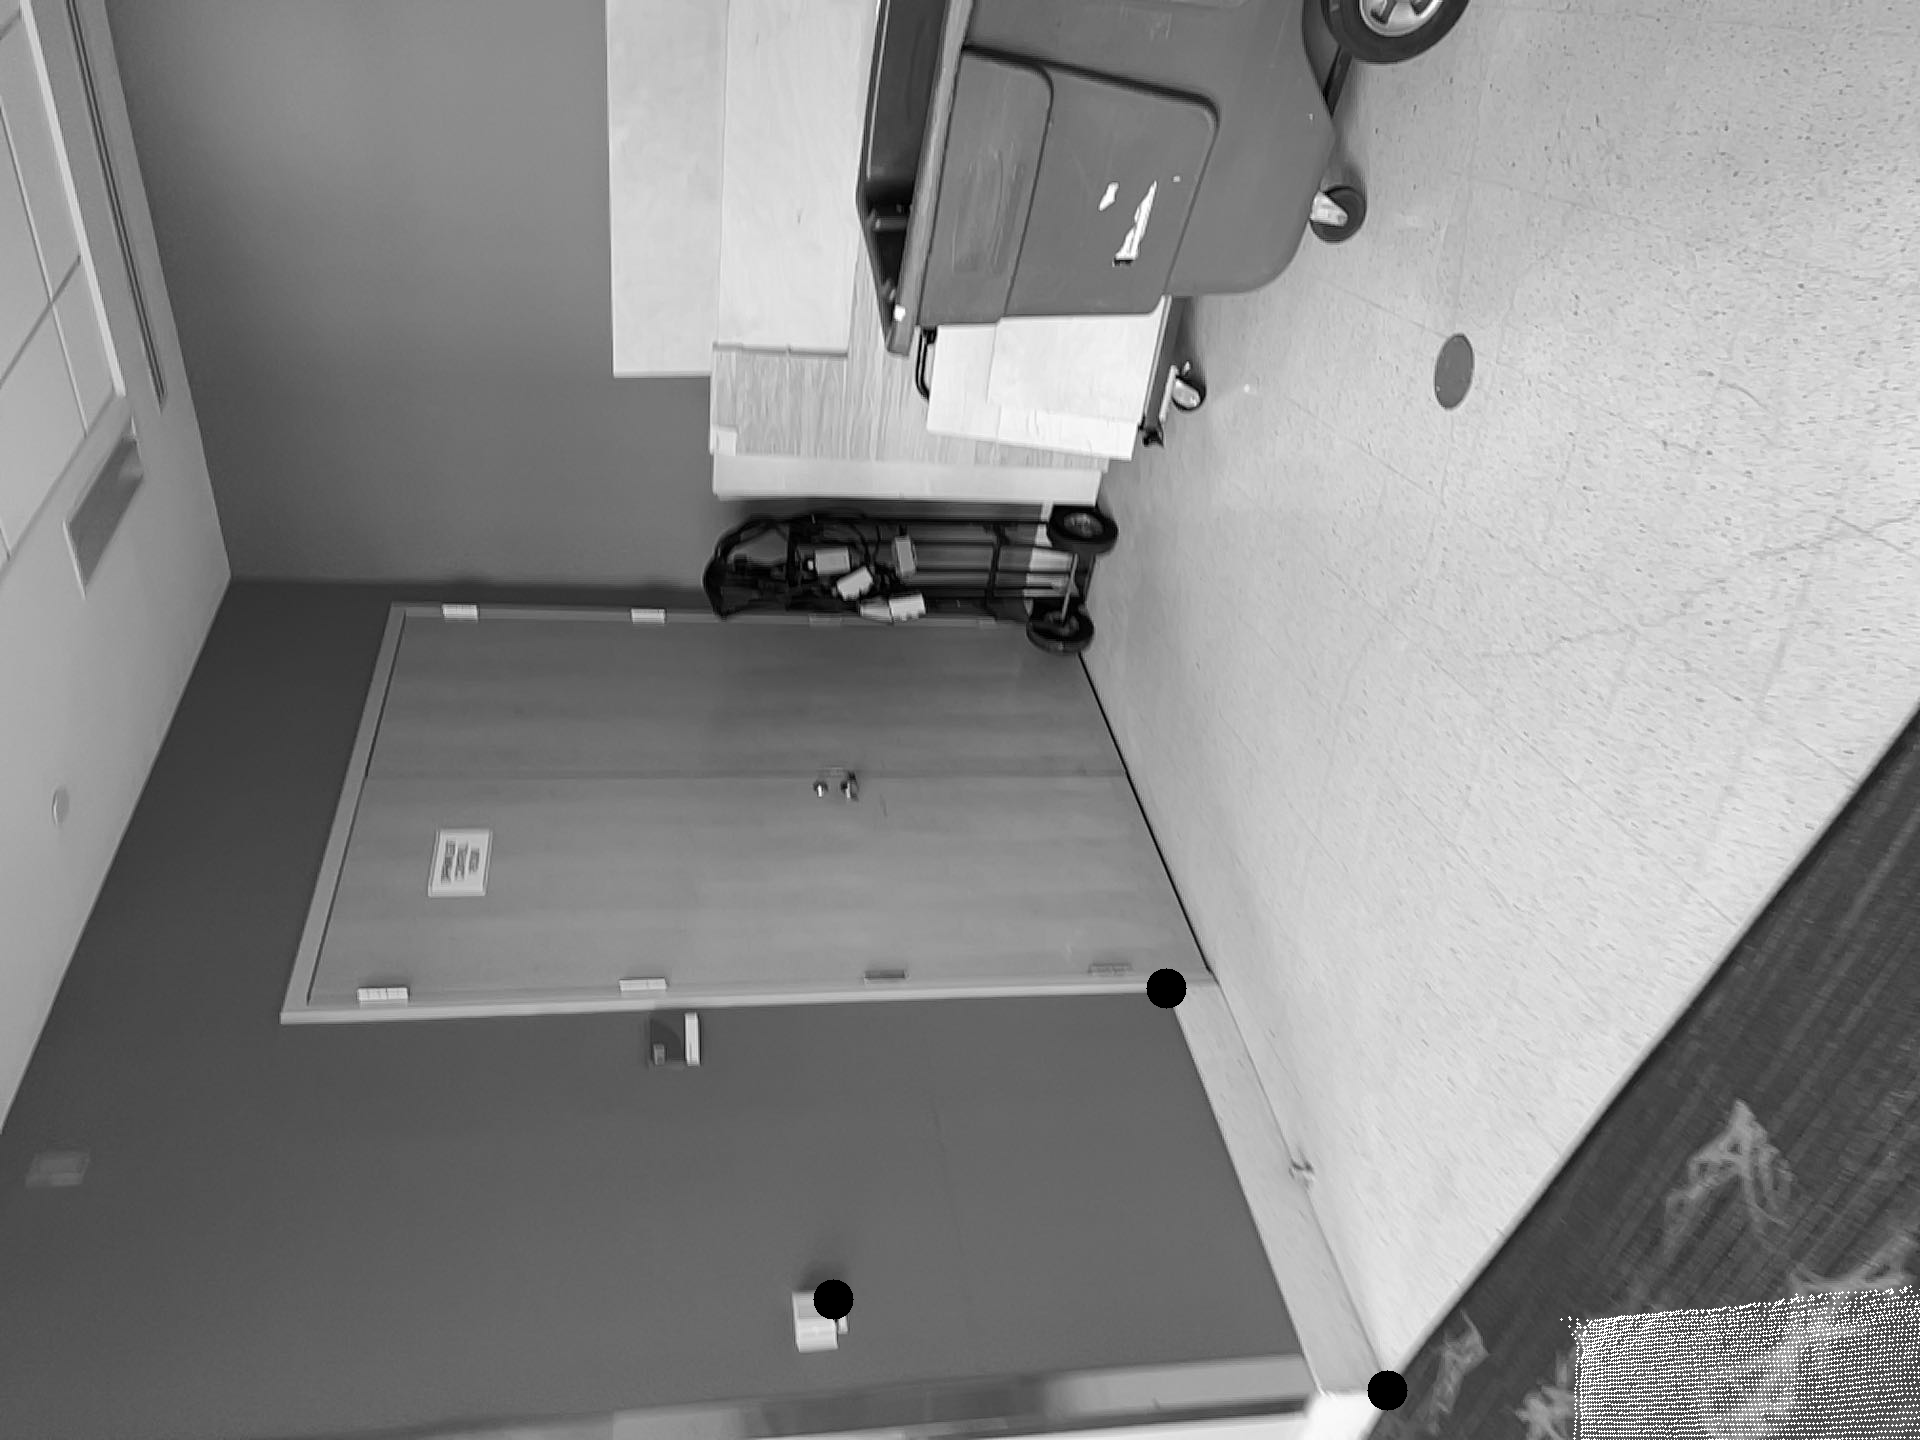
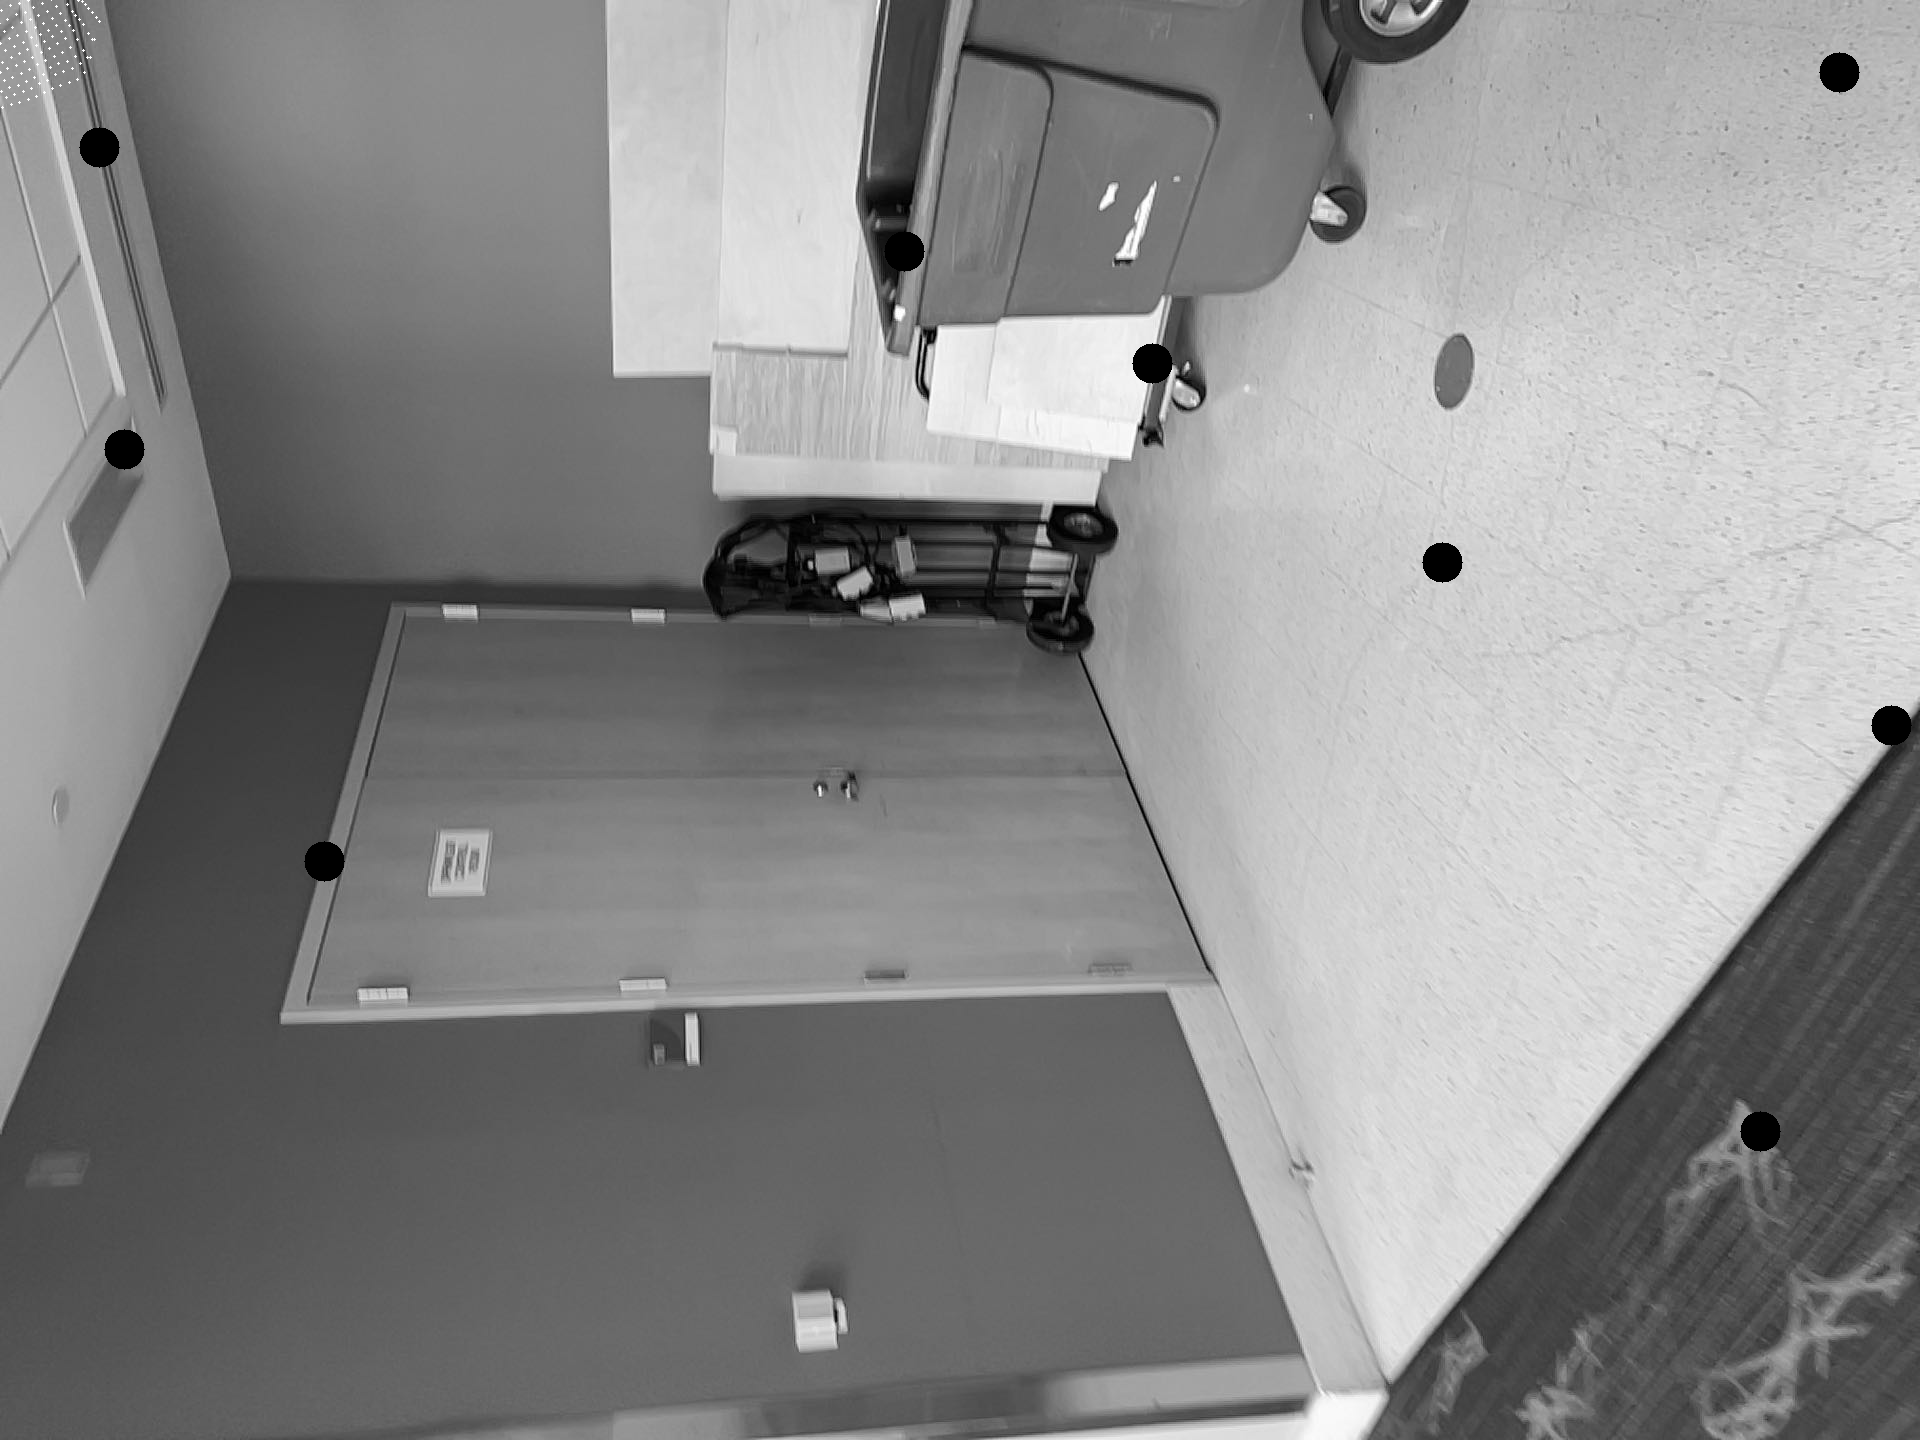
added calculation for average distance between depth matched and algorithm matched points on the train image

diff --git a/src/DepthMath.py b/src/DepthMath.py
@@ -1,45 +1,54 @@
-import sys
-import os
 import cv2
 import numpy as np
 from scipy.linalg import inv
 from copy import copy
 
-# sys.path.append(f"{os.path.dirname(os.path.dirname(__file__))}/src/")
 from Benchmarker import Benchmarker
-from MatchingAlgorithm import OrbMatcher, SiftMatcher, SuperGlueMatcher
+from MatchingAlgorithm import OrbMatcher, SiftMatcher
 
-
-def map_depth(bundle, keypoints, query_image, train_image):
-    focal_length = bundle.query_image_intrinsics[0]
-    offset_x = bundle.query_image_intrinsics[6]
-    offset_y = bundle.query_image_intrinsics[7]
-
+def convert_unit_depth_vectors(query_image_depth_map):
+    """
+    Multiplies unit depth vector by it's magnitude.
+    """
     query_lidar_depths = []
     for row in bundle.query_image_depth_map:
         x = row[0] * row[3]
         y = row[1] * row[3]
         z = row[2] * row[3]
-        query_lidar_depths.append([x, y, z])
-
+        query_lidar_depths.append([x, y, z]) 
     query_depth_data = np.array(query_lidar_depths)
     query_depth_data = np.hstack(
         (query_depth_data, np.ones((query_depth_data.shape[0], 1)))
     ).T
-    query_depth_feature_points = np.array(
-        (query_depth_data[0], -query_depth_data[1], -query_depth_data[2])
-    ).T
-
-    # calculate depths and pixels of feature points
+    return query_depth_data
+    
+def project_depth_onto_image(query_depth_feature_points, focal_length, offset_x, offset_y):
     pixels = []
     for row in query_depth_feature_points:
         pixel_x = row[0] * focal_length / row[2] + offset_x
         pixel_y = row[1] * focal_length / row[2] + offset_y
         pixels.append((pixel_x, pixel_y))
+    return pixels    
 
+def map_depth(bundle, keypoints, query_image, train_image):
+    ## Depth map of query image
+    focal_length = bundle.query_image_intrinsics[0]
+    offset_x = bundle.query_image_intrinsics[6]
+    offset_y = bundle.query_image_intrinsics[7]
+
+    query_depth_data = convert_unit_depth_vectors(bundle.query_image_depth_map)
+    
+    # Actual depth feature points, with magnitude removed from the vector. 
+    query_depth_feature_points = np.array(
+        (query_depth_data[0], -query_depth_data[1], -query_depth_data[2])
+    ).T
+
+    # calculate depths and pixels of feature points
+    pixels = project_depth_onto_image(query_depth_feature_points, focal_length, offset_x, offset_y)
+    
     final_query_image = query_image
 
-    # Plot depth map
+    # Plot depth map onto query image
     for i, pixel in enumerate(pixels):
         final_query_image = cv2.circle(
             final_query_image,
@@ -53,23 +62,7 @@ def map_depth(bundle, keypoints, query_image, train_image):
             -1,
         )
 
-    # Converts pixels of keypoint to depth point index
-    # # Plots corresponding depth point
-    # final_query_image = cv2.circle(
-    #     query_image,
-    #     (
-    #         int(pixels[corresponding_depth_index][0]),
-    #         int(pixels[corresponding_depth_index][1]),
-    #     ),
-    #     10,
-    #     (
-    #         0,
-    #         0,
-    #         0,
-    #     ),
-    #     -1,
-    # )
-
+    ## Depth map of train image
     focal_length = bundle.train_image_intrinsics[0]
     offset_x = bundle.train_image_intrinsics[6]
     offset_y = bundle.train_image_intrinsics[7]
@@ -89,14 +82,11 @@ def map_depth(bundle, keypoints, query_image, train_image):
     ).T
 
     pixels = []
-    for row in projected_depth_feature_points:
-        pixel_x = row[0] * focal_length / row[2] + offset_x
-        pixel_y = row[1] * focal_length / row[2] + offset_y
-        pixels.append((pixel_x, pixel_y))
+    pixels = project_depth_onto_image(projected_depth_feature_points, focal_length, offset_x, offset_y)
 
     final_train_image = train_image
 
-    # Plot depth map
+    # Plot transformed depth map onto train image.
     for i, pixel in enumerate(pixels):
         final_train_image = cv2.circle(
             final_train_image,
@@ -110,15 +100,20 @@ def map_depth(bundle, keypoints, query_image, train_image):
             -1,
         )
 
+    depth_point_to_algo_point_distances = []
+    ## Project corresponding query image keypoints onto train image which are matched using depth map data
     for unimatch in keypoints:
         matched_query_keypoint = (int(unimatch.queryPt.x), int(unimatch.queryPt.y))
         matched_train_keypoint = (int(unimatch.trainPt.x), int(unimatch.trainPt.y))
 
+        # get corresponding depth map index for each keypoint. 
+            # Keypoints in a rectangular area around a depth index are matched to same index.
+            # This is done since the resolution of depth map is lower than the resolution of the image.
         corresponding_depth_index = round(
             matched_query_keypoint[0] / 7.5
         ) * 192 + round(matched_query_keypoint[1] / 7.5)
 
-        # Represents the keypoint
+        # Draw query image keypoints
         final_query_image = cv2.circle(
             final_query_image,
             (matched_query_keypoint[0], matched_query_keypoint[1]),
@@ -130,11 +125,12 @@ def map_depth(bundle, keypoints, query_image, train_image):
             ),
             -1,
         )
-
-        # Represents the matched train keypoint
+        algo_matched_point = np.array((matched_train_keypoint[0], matched_train_keypoint[1]))
+        depth_matched_point = np.array((int(pixels[corresponding_depth_index][0]), int(pixels[corresponding_depth_index][1])))
+        # Draw train image keypoints, matched using the algorithm
         final_train_image = cv2.circle(
             final_train_image,
-            (matched_train_keypoint[0], matched_train_keypoint[1]),
+            algo_matched_point,
             20,
             (
                 0,
@@ -144,13 +140,10 @@ def map_depth(bundle, keypoints, query_image, train_image):
             -1,
         )
 
-        # Plots corresponding depth point from query image on train image
+        # Plots corresponding depth point from query image on train image, matched using the depth data
         final_train_image = cv2.circle(
             final_train_image,
-            (
-                int(pixels[corresponding_depth_index][0]),
-                int(pixels[corresponding_depth_index][1]),
-            ),
+            depth_matched_point,
             20,
             (
                 255,
@@ -159,19 +152,22 @@ def map_depth(bundle, keypoints, query_image, train_image):
             ),
             -1,
         )
+        
+        depth_point_to_algo_point_distances.append(np.linalg.norm(algo_matched_point - depth_matched_point))
 
+    print("Average depth point to algo point distance: ", np.mean(depth_point_to_algo_point_distances))
     cv2.imwrite("query.png", final_query_image)
     cv2.imwrite("train.png", final_train_image)
     userinput = input("d")
 
 
-session = Benchmarker("Temp").sessions[2]
+session = Benchmarker("Temp").sessions[1]
 
 for bundle in session.bundles:
 
     query_image = copy(bundle.query_image)
     train_image = copy(bundle.train_image)
 
-    new_superglue_matcher = SuperGlueMatcher().get_matches(query_image, train_image)
+    new_superglue_matcher = SiftMatcher().get_matches(query_image, train_image)
 
     map_depth(bundle, new_superglue_matcher[:10], query_image, train_image)

diff --git a/src/MatchingAlgorithm.py b/src/MatchingAlgorithm.py
@@ -3,7 +3,7 @@ import cv2
 import matplotlib.pyplot as plt
 from UniMatch import UNIMatch
 
-from SuperGlue import get_superglue_matches, draw_superglue_matches
+# from SuperGlue import get_superglue_matches, draw_superglue_matches
 
 
 class MatchingAlgorithm(ABC):
@@ -41,32 +41,32 @@ class MatchingAlgorithm(ABC):
         pass
 
 
-class SuperGlueMatcher(MatchingAlgorithm):
-    """
-    Matching Algorithm that uses SuperGlue to match keypoints between two images.
-    """
+# class SuperGlueMatcher(MatchingAlgorithm):
+#     """
+#     Matching Algorithm that uses SuperGlue to match keypoints between two images.
+#     """
 
-    def __init__(self):
-        pass
+#     def __init__(self):
+#         pass
 
-    def get_matches(self, query_image, train_image):
-        return self.matches_to_unimatches(*get_superglue_matches(query_image, train_image))
+#     def get_matches(self, query_image, train_image):
+#         return self.matches_to_unimatches(*get_superglue_matches(query_image, train_image))
 
-    def draw_matches(self):
-        return draw_superglue_matches()
+#     def draw_matches(self):
+#         return draw_superglue_matches()
 
-    def matches_to_unimatches(self, matches, mkpts0, mkpts1):
-        # Create list of UNIMatch objects
-        uniMatches = []
-        for i in range(0, len(matches), 4):
-            uniMatches.append(UNIMatch(
-                matches[i],
-                matches[i + 1],
-                matches[i + 2],
-                matches[i + 3],
-            ))
+#     def matches_to_unimatches(self, matches, mkpts0, mkpts1):
+#         # Create list of UNIMatch objects
+#         uniMatches = []
+#         for i in range(0, len(matches), 4):
+#             uniMatches.append(UNIMatch(
+#                 matches[i],
+#                 matches[i + 1],
+#                 matches[i + 2],
+#                 matches[i + 3],
+#             ))
 
-        return uniMatches
+#         return uniMatches
 
 
 class OrbMatcher(MatchingAlgorithm):
